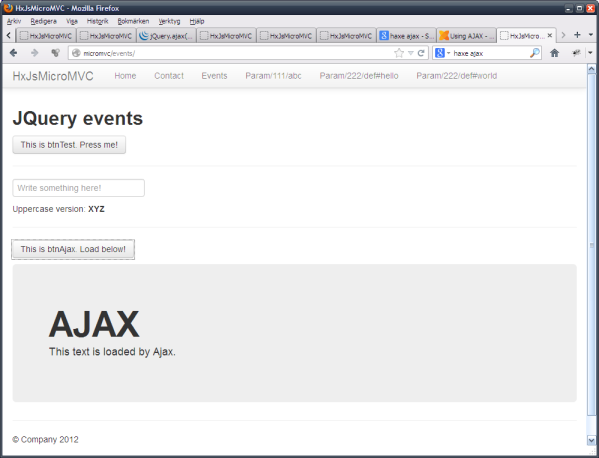
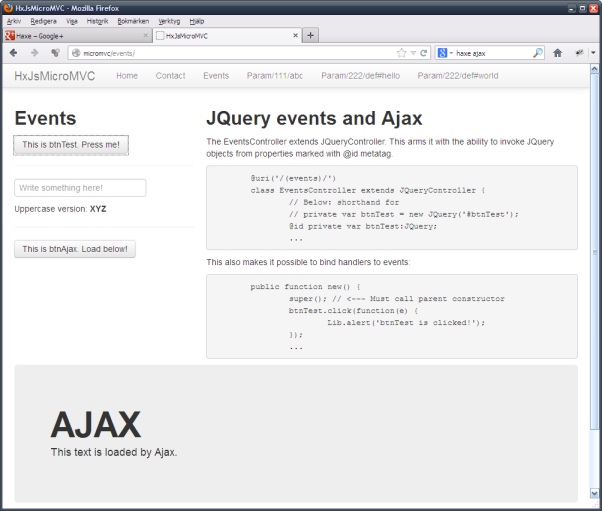
updated readme

diff --git a/bin/pages/events.html b/bin/pages/events.html
@@ -1,15 +1,43 @@
-<h2>JQuery events</h2>
-<p>
-	<button class="btn" id="btnTest">This is btnTest. Press me!</button>
-</p>
-<hr/>
-<p>
-	<input id="inputTest" type="text" placeholder="Write something here!"></input>
-	<br />
-	Uppercase version: <b><span id="labelUppercase">XYZ</span></b>
-</p>
-<hr/>
-<p>
-	<button class="btn" id="btnAjax">This is btnAjax. Load below!</button>
-</p>
+<div class="row">
+	<div class="span4">
+		<h2>Events</h2>
+		<p>
+			<button class="btn" id="btnTest">This is btnTest. Press me!</button>
+		</p>
+		<hr/>
+		<p>
+			<input id="inputTest" type="text" placeholder="Write something here!"></input>
+			<br />
+			Uppercase version: <b><span id="labelUppercase">XYZ</span></b>
+		</p>
+		<hr/>
+		<p>
+			<button class="btn" id="btnAjax">This is btnAjax. Load below!</button>
+		</p>
+
+	</div>
+
+	<div class="span8">
+		<h2>JQuery events and Ajax</h2>
+		<p>The EventsController extends JQueryController. This arms it with the ability to invoke JQuery objects from properties marked with @id metatag.
+		
+		<pre>
+	@uri('/(events)/') 
+	class EventsController extends JQueryController {	
+		// Below: shorthand for 
+		// private var btnTest = new JQuery('#btnTest');
+		@id private var btnTest:JQuery;	
+		...</pre>
+		<p>This also makes it possible to bind handlers to events:</p>
+		<pre>
+	public function new() {		
+		super(); // <--- Must call parent constructor
+		btnTest.click(function(e) {
+			Lib.alert('btnTest is clicked!');
+		});
+		...</pre>
+		
+	</div>
+</div>
+
 <div id="divAjax">This text should be replaced...</div>

diff --git a/bin/pages/home.html b/bin/pages/home.html
@@ -1,1 +1,12 @@
 <h2>Home page</h2>
+<p>Nothing fancy happens here.</p>
+<p>There *is* a HomeController bound to @uri('/'), but it does nothing.<br/>
+It's just here because of demonstration reasons.</p>
+<pre>
+@uri('/')  // <-- not needed for index page = '/'
+class HomeController implements IJSController {	
+	public function new() {
+		trace('new HomeController');
+	}		
+}
+</pre>

diff --git a/bin/pages/contact.html b/bin/pages/contact.html
@@ -1,1 +1,10 @@
 <h2>Contact page</h2>
+<p>The ContactController is bound to the @uri('/(contact)'), but does nothing but kicks of an greeting alert in its constructor.</p>
+<pre>
+@uri('/(contact)/')
+class ContactController implements IJSController {
+	public function new() {
+		Lib.alert('The ContactController says Hello world!');
+	}
+}	
+</pre>
